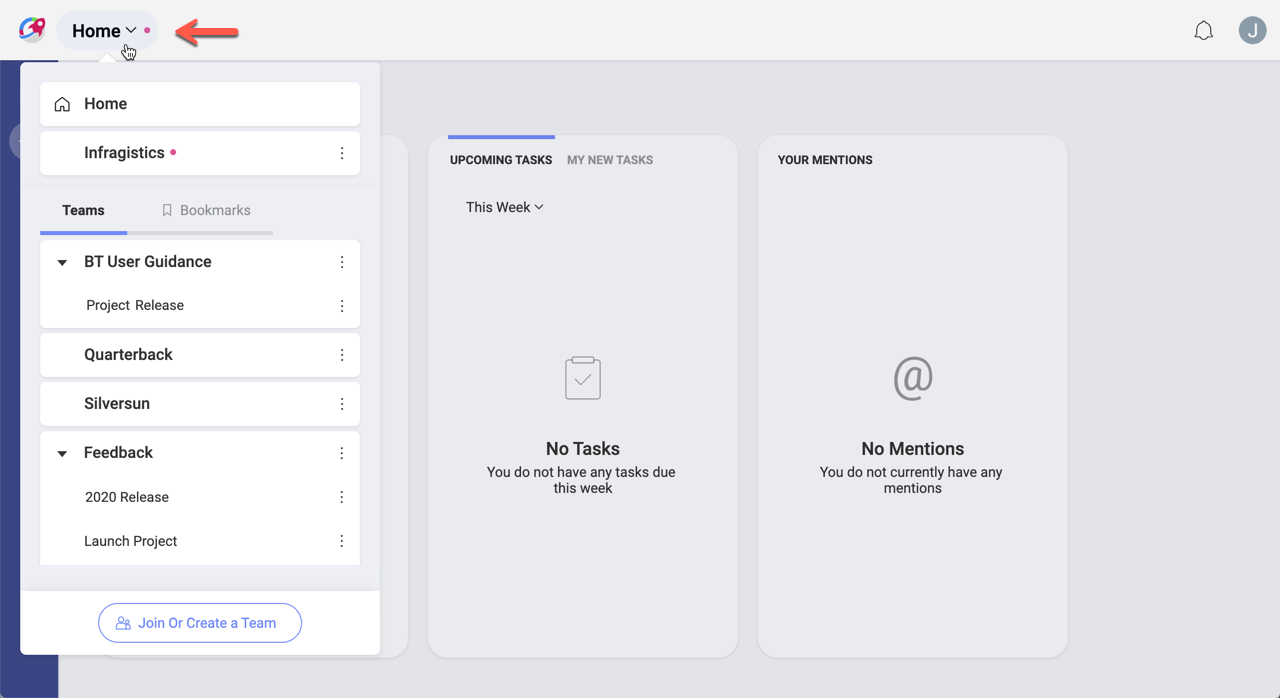
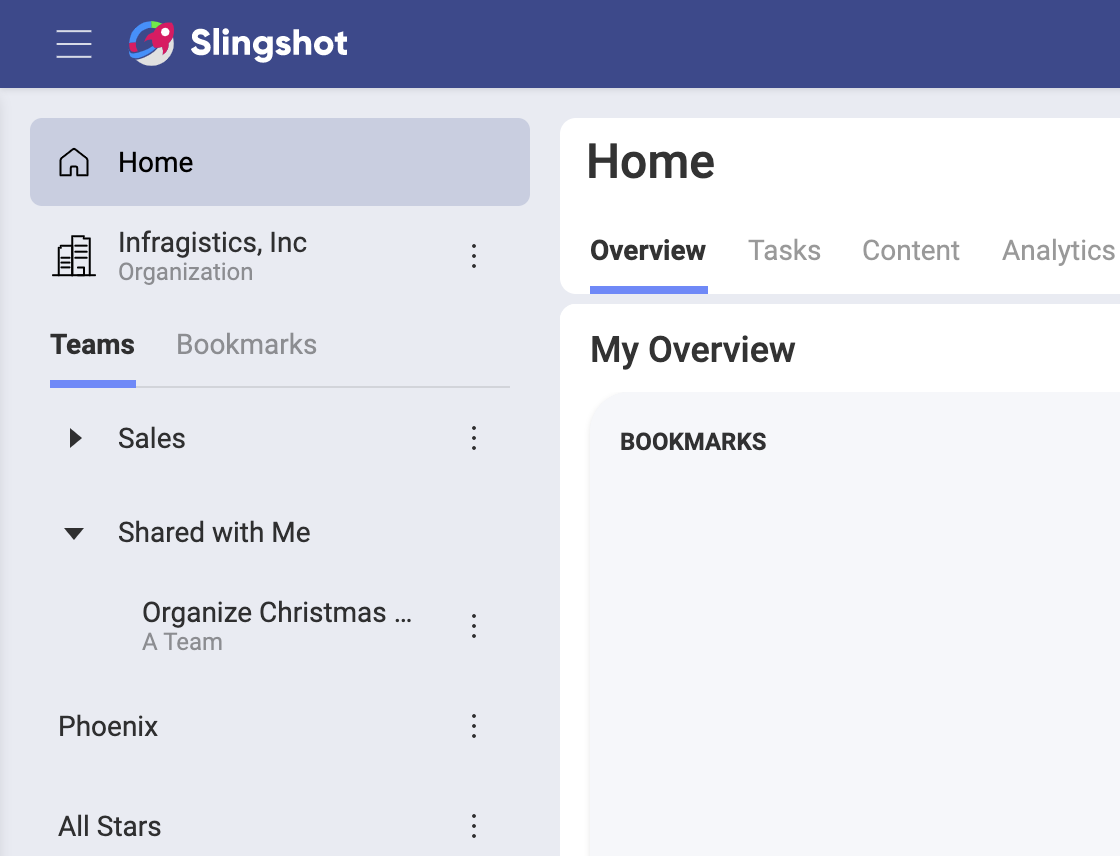
Add new screenshots and fix text where new UI requires it.

diff --git a/docTopics/en/components/logging-in-first-time.md b/docTopics/en/components/logging-in-first-time.md
@@ -16,7 +16,6 @@ When you log in with Google and Microsoft, you get a cloud storage automatically
 
 Once you get in, you are greeted with your first screen:
 
-[comment]: <> ([New UI] replace with a similar screenshot)
 <img src="../images/personal-overview-blank.png" alt="Personal Overview completely blank for a new user" width="100%"/>
 
 You always start in your personal space, your **Home**. Specifically, in _My Overview_. This is the place where you can have a quick glance at your most important information, organize yourself, and visualize your work.
@@ -28,20 +27,28 @@ As you can see above, _My Overview_ can get very busy. Let's focus on getting yo
 
 ### Home, Organization, Teams, and Projects
 
-Your personal space, **Home**, is great and useful, but Slingshot is about effective collaboration while running teams and projects. So, you're probably wondering how to switch between your personal space, teams, and projects? Check out the image below:
+Your personal space, **Home**, is great and useful, but Slingshot is about effective collaboration while running teams and projects. So, you're probably wondering how to switch between your personal space, teams, and projects? 
 
-[comment]: <> ([New UI] - replace with a similar one)
-<img src="../images/teams-navigation-opened.png" alt="Organization, Teams, and Projects navigation opened" width="100%"/>
+Check out the image below:
 
-By scrolling down the panel on the left you are able to navigate your teams and their projects. If you bookmarked a team or project to keep it at hand, you can select bookmarks here to find it faster. Your organization (if you have one) is also displayed here, right under _Home_.
+<img src="../images/teams-navigation-opened.png" alt="Organization, Teams, and Projects navigation opened" width="50%"/>
+
+The navigation panel on the left includes: 
+
+- your **Home** tab; 
+- your **Organization** tab (if you have one), and 
+- the **Teams** and **Bookmarks** tabs. 
+
+You can switch between the content in your Home, Organization and teams. 
+
+When the *Teams* tab is selected you will see a list of Teams and Projects. If you bookmarked a team or project to keep it at hand, you can select the *Bookmarks* tab to find it faster.
 
 To navigate to any team or project, just click/tap over it.
 
-[comment]: <> ([New UI] - replace with a similar one)
-<img src="../images/teams-navigation-organization.png" alt="Organization, Teams, and Projects navigation opened and hovering the Organization" width="100%"/>
-
 Keep in mind that in Slingshot, people can be part of an organization, plus one or more teams, and also one or more projects. Projects live within teams, and you have overviews, tasks, discussions, content, and dashboards at both levels. For example, there are team tasks and project tasks as well.  
 Follow the links for further details about [teams](teams.md) or [projects](projects.md).
+
+> Continue from here
 
 ### Overviews, Projects, Tasks, Discussions, Content, and Dashboards
 
